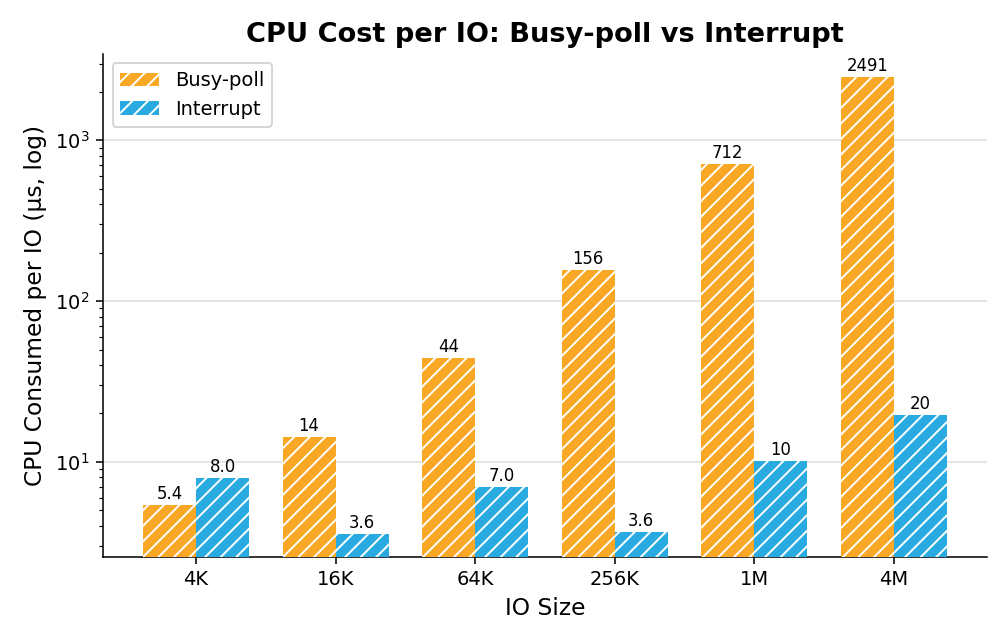
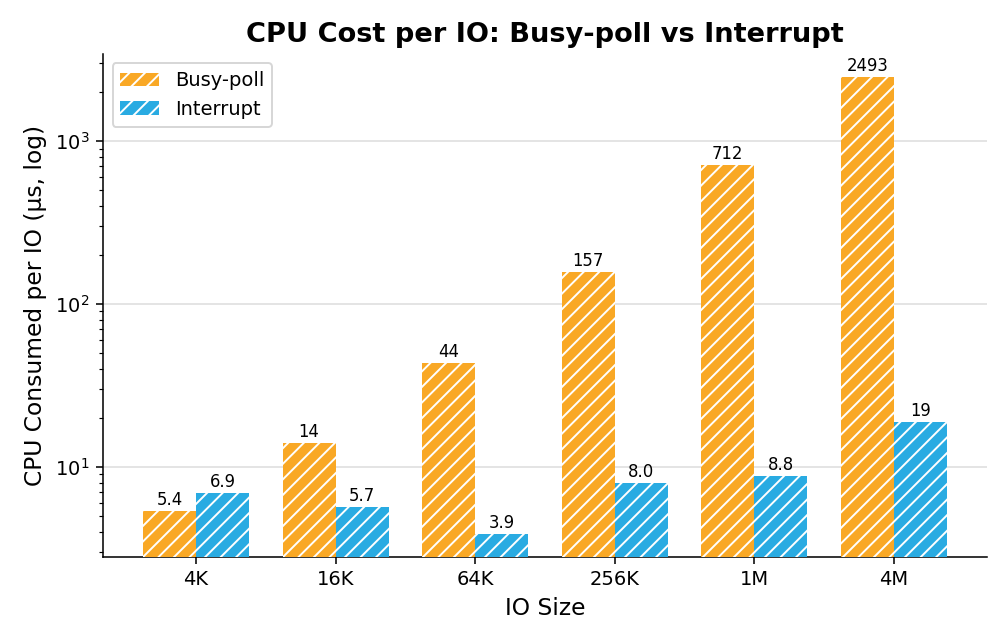
docs: correct interrupt-mode results with clean re-measured data
Re-collect the CPU sweep in a single run (fixes cross-batch inconsistencies)
and correct the analysis:

- CPU utilization is now strictly monotonic (4K 41.8% -> 4M 0.8%); the earlier
  write-up skipped 16K to claim monotonicity.
- 4K is a net loss, stated plainly: interrupt-mode per-IO CPU (6.9us) exceeds
  busy-poll (5.4us) and p50 rises 5.1->17.5us. The prior "completion arrives
  before the thread blocks, so it's just a low-latency guard" explanation was
  contradicted by that 3.4x latency rise; the real cause is fixed ppoll +
  eventfd-read syscall overhead dominating a ~5us transfer.
- Peak saving restated as 131x at 4MB from the fresh data.

Figures regenerated from wj/perf_data_final_20260714_210018.

diff --git a/README.md b/README.md
@@ -160,15 +160,17 @@ interrupt mode drops to under 1% for large transfers:
 
 Measured as CPU consumed per I/O (log scale), busy-poll's cost grows with the
 transfer time because it spins the whole way, while interrupt mode stays flat —
-just submit plus one wakeup — yielding up to a **127× CPU reduction at 4 MB**:
+just submit plus one wakeup — yielding up to a **131× CPU reduction at 4 MB**:
 
 ![Interrupt vs busy-poll: CPU cost per I/O](assets/ugds_interrupt_cpu_per_io.png)
 
 For large I/O or low-queue-depth / idle workloads, interrupt mode frees almost
-the entire core at a negligible latency cost (p50 within 2% at ≥256 KB). For
-tiny, latency-critical I/O, keep the default busy-poll — a completion often
-arrives before the thread would even block, so interrupt mode only adds `ppoll`
-overhead there (4 KB p50 5.1 → 17.5 µs).
+the entire core at a negligible latency cost (p50 within 3% at ≥256 KB). For
+tiny, latency-critical I/O, keep the default busy-poll: at 4 KB/QD1 each I/O
+completes in ~5 µs, so blocking in `ppoll` and taking a wakeup adds two
+syscalls whose fixed cost dominates — interrupt mode's per-I/O CPU (6.9 µs) and
+latency (5.1 → 17.5 µs p50) both go *up*. The break-even is around 16–64 KB;
+below it, busy-poll wins.
 
 ## API Coverage
 